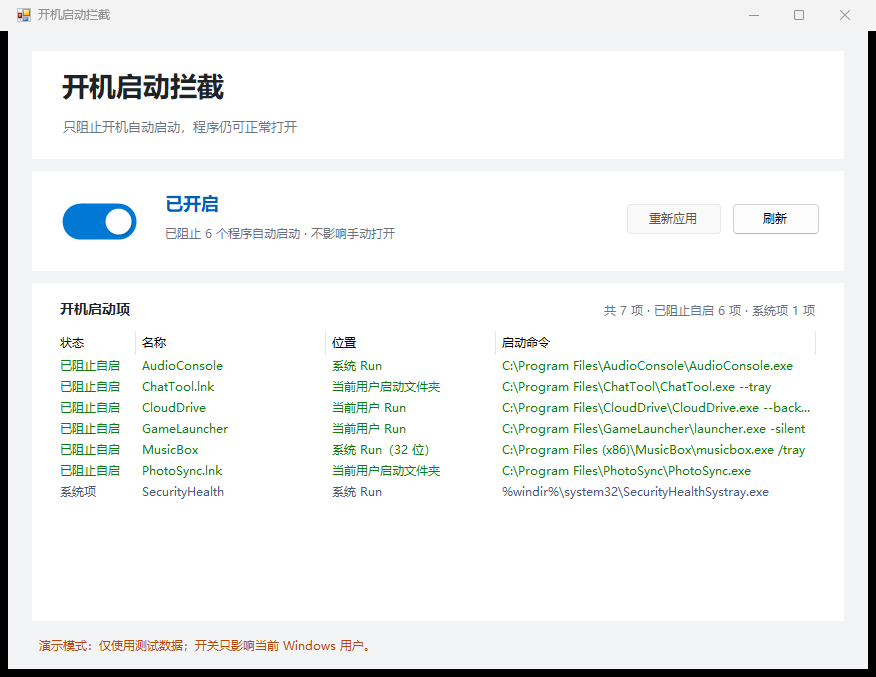
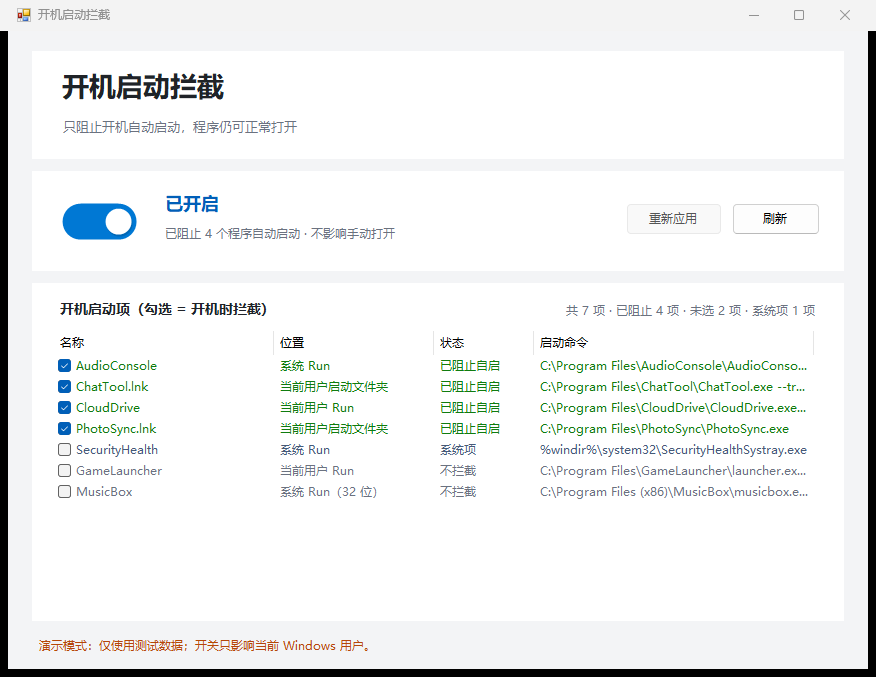
支持逐项选择要拦截的启动项
列表每项增加勾选框：勾选=开关开启时阻止其开机自启，取消=不拦截；开关开启时立即生效，关闭时只保存选择。选择与命令行 -Exclude 共享状态。修复勾选/取消时的列表刷新重入和一个空排除规则的格式判断错误；新增 2 个选择测试，共 20 个测试通过，并更新截图和文档。

diff --git a/startup-guard/README.md b/startup-guard/README.md
@@ -10,8 +10,9 @@
 
 ![开关开启：启动项全部屏蔽](docs/switch-on.png)
 
-> 截图使用带「演示模式」标记的测试数据，未展示或修改本机真实启动项。其中 `SecurityHealth`
-> 是 Windows 系统项，保持「系统项」状态、不会被屏蔽。
+> 截图使用带「演示模式」标记的测试数据，未展示或修改本机真实启动项。列表中 `GameLauncher`
+> 和 `MusicBox` 未勾选，因此不会被拦截；`SecurityHealth` 是 Windows 系统项，保持「系统项」
+> 状态、不会被拦截。
 
 ## 安装到桌面（推荐）
 
@@ -40,7 +41,7 @@ powershell -NoProfile -ExecutionPolicy Bypass -File .\install.ps1
 
 ## 开关行为
 
-**开启** 只取消自动启动，不阻止程序运行。它会遍历当前能看到的所有开机启动项，对其中处于启用状态、且不属于系统项的项写入当前用户的
+**开启** 只取消自动启动，不阻止程序运行。它会遍历当前能看到的所有开机启动项，对其中处于启用状态、已勾选、且不属于系统项的项写入当前用户的
 `StartupApproved` 禁用标记（这正是任务管理器「禁用」按钮使用的机制），并把原始标记
 保存到状态文件：
 
@@ -53,6 +54,18 @@ powershell -NoProfile -ExecutionPolicy Bypass -File .\install.ps1
 用户此前手动禁用的项保持禁用。关闭后，这些程序会恢复随登录自动启动。
 
 **重新应用** 在开关开启时可用，用来处理后来新增或重新启用的启动项。
+
+## 逐项选择拦截范围
+
+列表每一行左侧都有勾选框：
+
+- **勾选** = 开关开启时阻止该项开机自启。
+- **取消勾选** = 不拦截该项；它仍会正常开机自启，也可以随时手动打开。
+- 系统项固定为「系统项」，不会出现可选中的拦截勾选。
+- 开关开启时，勾选/取消会立即生效；开关关闭时只保存选择，下次开启开关时应用。
+- 选择保存在状态文件的 `excluded` 列表中；命令行 `-Exclude` 与界面共享同一份列表。
+- 由命令行通配符排除的项显示为未勾选；如果要在界面里重新勾选，请先在命令行修改对应规则。
+- 已由任务管理器等方式禁用的项也可以勾选；等它恢复启用后，点「重新应用」即可按选择拦截。
 
 ## 屏蔽范围
 
@@ -86,16 +99,16 @@ Realtek 音频面板、反作弊托盘等第三方程序不在系统保护范围
 
 ## 安全提醒
 
-开关默认屏蔽列表里的**所有**启用项（Windows 系统项除外），包括第三方安全软件托盘、
+开关默认拦截列表中**已勾选**的所有启用项（Windows 系统项除外），包括第三方安全软件托盘、
 游戏反作弊托盘，以及像「大肥鱼开关」这类电源监控脚本。Windows 安全中心托盘默认受保护。
-如果某个启动项必须保留，请先把它加入排除列表：
+如果某个启动项必须保留，取消勾选或把它加入排除列表：
 
 ```powershell
 # 在 PowerShell 中进入本目录
 .\startup-guard.ps1 on -Exclude "大肥鱼开关*"
 ```
 
-- 排除项会保存在状态文件中，后续通过界面打开开关时也会遵守。
+- 排除项会保存在状态文件中，与界面的勾选状态共享；后续打开开关时也会遵守。
 - 如果开关已经开启，再执行上面的命令会立即释放被排除的项。
 - 清空排除列表：`.\startup-guard.ps1 on -Exclude ""`（会重新屏蔽这些项）。
 - 支持通配符 `*` 和 `?`；匹配的是启动项名称（Run 值名或 `.lnk` 文件名）。
@@ -118,7 +131,7 @@ Realtek 音频面板、反作弊托盘等第三方程序不在系统保护范围
 | `Blocked` | 本工具已阻止其开机自启；程序仍可手动打开，关闭开关会恢复自动启动 |
 | `Enabled` | 当前会随登录启动 |
 | `Disabled` | 已被其他方式（任务管理器等）禁用，工具不会改动 |
-| `Excluded` | 命中排除列表，工具不会屏蔽 |
+| `Excluded` | 未勾选或命中排除列表；开关开启时不会拦截 |
 | `Protected` | Windows 系统组件，工具默认不屏蔽 |
 | `Unknown` | `StartupApproved` 标记无法识别，工具跳过并给出警告 |
 
@@ -163,9 +176,9 @@ powershell -NoProfile -ExecutionPolicy Bypass -File tests\StartupGuard.Tests.ps1
 测试完全在沙箱中进行：注册表使用临时键
 `HKCU\Software\StartupGuardTests\<guid>`，启动文件夹使用临时目录，不会触碰真实的
 启动配置；测试结束前还会对比真实 `StartupApproved` 键的快照，确认它们没有被改动。
-共 18 个用例，覆盖列表、屏蔽、精确恢复、启动文件夹、漂移重应用、排除、试运行、
-空操作、未知标记、同名覆盖层、卸载后的残留标记、系统项保护与旧记录释放、
-损坏状态文件和桌面安装。
+共 20 个用例，覆盖列表、屏蔽、精确恢复、启动文件夹、漂移重应用、排除、逐项选择
+（开关关闭时保存、开关开启时立即应用）、试运行、空操作、未知标记、同名覆盖层、
+卸载后的残留标记、系统项保护与旧记录释放、损坏状态文件和桌面安装。
 
 界面截图由 GUI 的测试参数生成（仅在指定 `-SandboxRoot` 时可用）：
 

diff --git a/README.md b/README.md
@@ -7,4 +7,5 @@
 - 安装到桌面：`powershell -ExecutionPolicy Bypass -File startup-guard\install.ps1`，之后双击桌面上的「开机启动拦截」。
 - 也可以直接双击 [`startup-guard/StartupGuard.cmd`](startup-guard/StartupGuard.cmd) 打开开关窗口。
 - 使用说明、原理和命令行见 [`startup-guard/README.md`](startup-guard/README.md)。
-- 只拦第三方启动软件，Windows 系统项默认受保护；不需要管理员权限，不会删除任何启动项或快捷方式。
+- 可以逐项勾选要拦截的启动项；只拦第三方启动软件，Windows 系统项默认受保护。
+- 不需要管理员权限，不会删除任何启动项或快捷方式。
